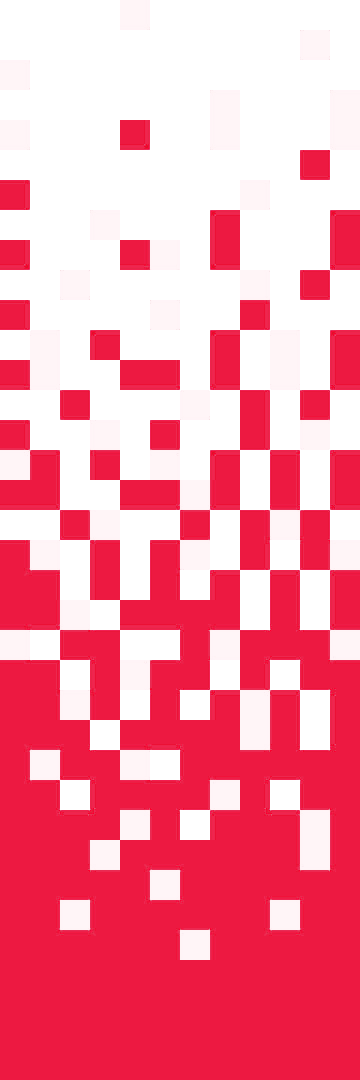
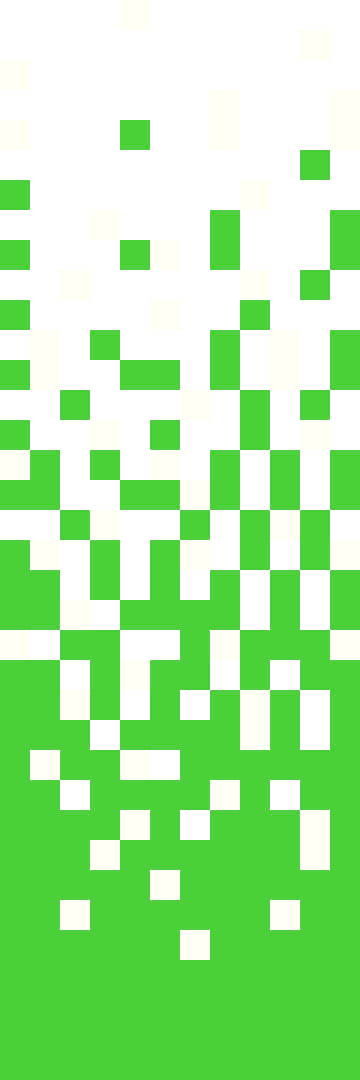
glitch style added

diff --git a/src/components/HeroSection.css b/src/components/HeroSection.css
@@ -65,4 +65,97 @@ video {
 	.btn{
 		width: 100%;
 	}
+	button.btn.btn--outline.btn--large > span {
+	    left: 38px!important;
+	}
+}
+
+@media screen and (min-width: 768px) and (max-width: 820px){
+	button.btn.btn--outline.btn--large > span {
+	    left: 133px!important;
+	}
+	}
+
+/*glitch effect*/
+button.btn.btn--outline.btn--large {
+  font-weight: 700;
+  text-transform: uppercase;
+  position: relative;
+
+  text-shadow: 0.05em 0 0 rgba(255, 0, 0, 0.75),
+    -0.025em -0.05em 0 rgba(0, 255, 0, 0.75),
+    0.025em 0.05em 0 rgba(0, 0, 255, 0.75);
+
+  animation: glitch 500ms infinite;
+}
+
+button.btn.btn--outline.btn--large > span {
+  position: absolute;
+  left: 25px;
+}
+
+button.btn.btn--outline.btn--large > span:first-child {
+  animation: glitch 650ms infinite;
+  clip-path: polygon(0 0, 100% 0, 100% 45%, 0 45%);
+  transform: translate(-0.025em, -0.0125em);
+  /* color: green; */
+  opacity: 0.8;
+}
+
+button.btn.btn--outline.btn--large > span:last-child {
+  animation: glitch 375ms infinite;
+  clip-path: polygon(0 80%, 100% 20%, 100% 100%, 0 100%);
+  transform: translate(0.0125em, 0.025em);
+  /* color: red; */
+  opacity: 0.8;
+}
+
+@keyframes glitch {
+  0% {
+    text-shadow: 0.05em 0 0 rgba(255, 0, 0, 0.75),
+      -0.05em -0.025em 0 rgba(0, 255, 0, 0.75),
+      -0.025em 0.05em 0 rgba(0, 0, 255, 0.75);
+  }
+  14% {
+    text-shadow: 0.05em 0 0 rgba(255, 0, 0, 0.75),
+      -0.05em -0.025em 0 rgba(0, 255, 0, 0.75),
+      -0.025em 0.05em 0 rgba(0, 0, 255, 0.75);
+  }
+  15% {
+    text-shadow: -0.05em -0.025em 0 rgba(255, 0, 0, 0.75),
+      0.025em 0.025em 0 rgba(0, 255, 0, 0.75),
+      -0.05em -0.05em 0 rgba(0, 0, 255, 0.75);
+  }
+  49% {
+    text-shadow: -0.05em -0.025em 0 rgba(255, 0, 0, 0.75),
+      0.025em 0.025em 0 rgba(0, 255, 0, 0.75),
+      -0.05em -0.05em 0 rgba(0, 0, 255, 0.75);
+  }
+  50% {
+    text-shadow: 0.025em 0.05em 0 rgba(255, 0, 0, 0.75),
+      0.05em 0 0 rgba(0, 255, 0, 0.75), 0 -0.05em 0 rgba(0, 0, 255, 0.75);
+  }
+  99% {
+    text-shadow: 0.025em 0.05em 0 rgba(255, 0, 0, 0.75),
+      0.05em 0 0 rgba(0, 255, 0, 0.75), 0 -0.05em 0 rgba(0, 0, 255, 0.75);
+  }
+  100% {
+    text-shadow: -0.025em 0 0 rgba(255, 0, 0, 0.75),
+      -0.025em -0.025em 0 rgba(0, 255, 0, 0.75),
+      -0.025em -0.05em 0 rgba(0, 0, 255, 0.75);
+  }
+}
+
+@media (prefers-reduced-motion: reduce) {
+  *,
+  ::before,
+  ::after {
+    animation-delay: -1ms !important;
+    animation-duration: 1ms !important;
+    animation-iteration-count: 1 !important;
+    background-attachment: initial !important;
+    scroll-behavior: auto !important;
+    transition-duration: 0s !important;
+    transition-delay: 0s !important;
+  }
 }

diff --git a/src/components/HeroSection.js b/src/components/HeroSection.js
@@ -12,7 +12,9 @@ function HeroSection() {
 				<div className="hero-btns">
 					<Button className='btns' buttonStyle ='btn--outline'
 					buttonSize='btn--large'>
+					<span aria-hidden="true">GET STARTED</span>
 					GET STARTED
+					<span aria-hidden="true">GET STARTED</span>
 					</Button>
 					<Button className='btns' buttonStyle ='btn--primary'
 					buttonSize='btn--large'>

diff --git a/src/components/Tabs.css b/src/components/Tabs.css
@@ -14,10 +14,11 @@ button#vertical-tab-0, button#vertical-tab-1, button#vertical-tab-2 {
 
 .makeStyles-root-1 {
     height: 100%!important;
+    background: none!important;
 }
 
 button:hover{
-	background: #ec0b36 url("/images/pixel.png");
+	background: #4ECD2B url("/images/pixel.png");
 	transition-delay: 0.8s;
 	background-size: 180px;
 	animation: animate 0.8s steps(8) forwards;

diff --git a/src/components/Game.js b/src/components/Game.js
@@ -9,12 +9,13 @@ function Game(){
 			<h2>TOWERS</h2>
 			<div className="game_wrapper">
 				<Tabs />
+				<CarouselComponent />
 			</div>
 			<h2>UNITIES</h2>
 			<div className="unity_wrapper">
 				Unities here
 			</div>
-			<CarouselComponent />
+			
 		</div>
 		)
 }

diff --git a/src/components/Game.css b/src/components/Game.css
@@ -1,7 +1,9 @@
 .game {
+  color: white;
   padding: 4rem;
   background: #fff;
   border-bottom: solid 6px olivedrab;
+  background-image: url("/images/green_network.jpg");
 }
 
 h2{
